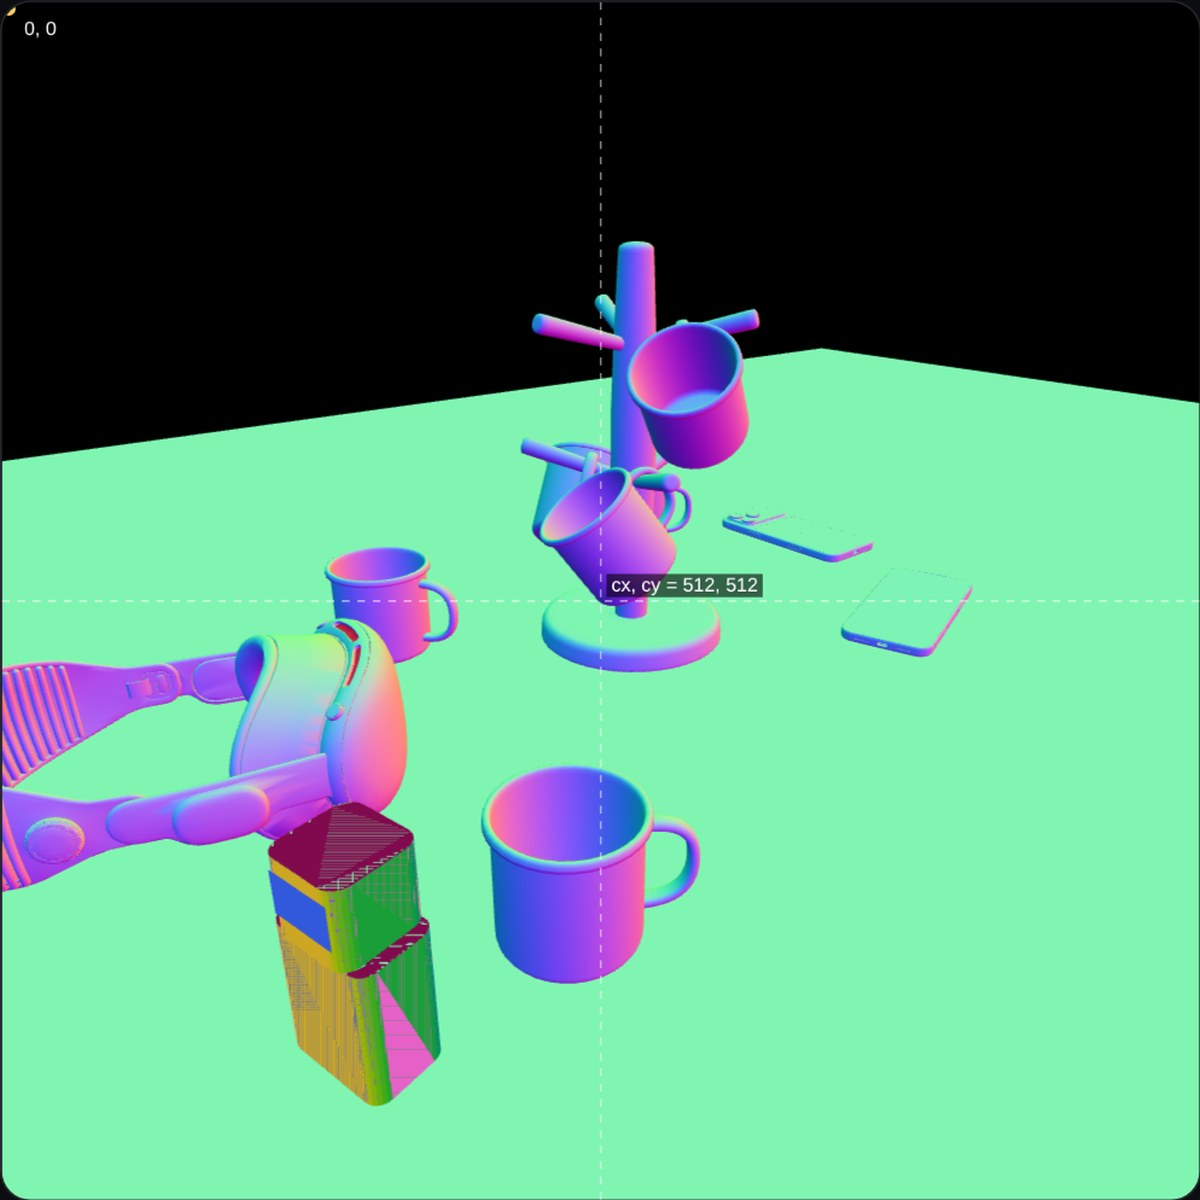
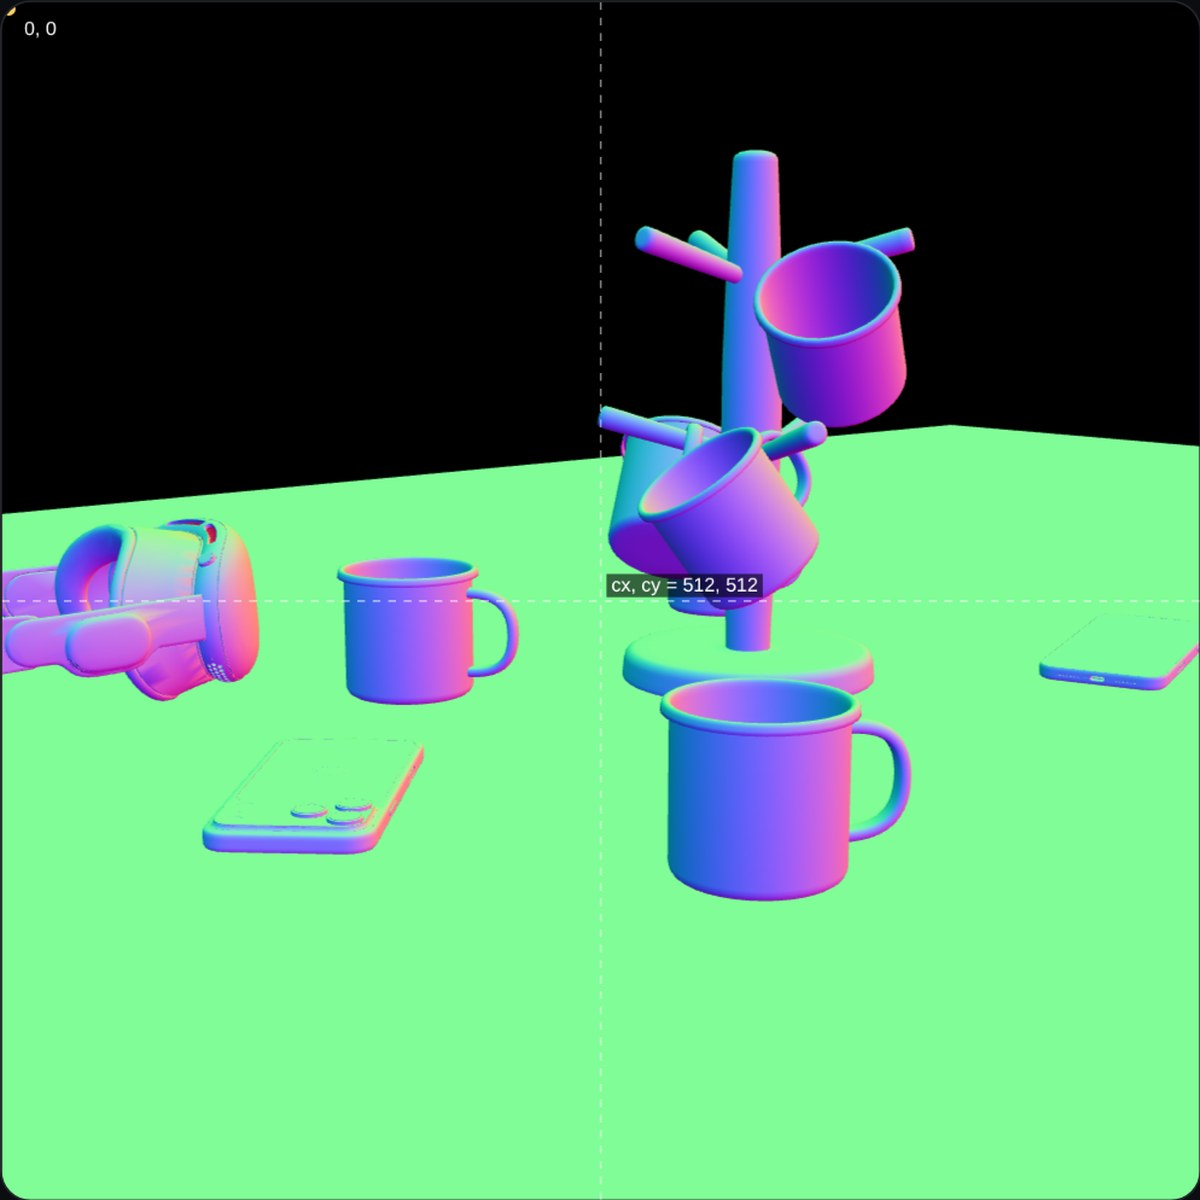
Remove the toy robot; new card images
Claude-Session: https://claude.ai/code/session_01BZ9VTa7dHcspoMet4PMtry

diff --git a/index.html b/index.html
@@ -309,7 +309,7 @@ footer a{text-decoration:none}footer a:hover{color:var(--text)}
 <div class="card" style="margin-top:14px">
 <h2>Assign a material</h2>
 <div class="pick" style="margin-top:12px">
-<label>Surface <select id="tgt" class="sel"><option value="table">Tabletop</option><option value="robot">Robot shell</option></select></label>
+<label>Surface <select id="tgt" class="sel"><option value="table">Tabletop</option></select></label>
 <label class="chk"><input type="checkbox" id="calib">Calibrate scanned albedo to the lookup value</label>
 <button class="btn" type="button" id="reset">Back to scene defaults</button>
 </div>
@@ -438,9 +438,9 @@ const tex=(c,gamma,rep)=>{const t=new BABYLON.Texture(c.toDataURL(),scene);t.gam
 const PSET={};const pset=(k,rep)=>{const key=k+rep;if(!PSET[key])PSET[key]={al:tex(RAW[k].al,true,rep),n:tex(RAW[k].n,false,rep),orm:tex(RAW[k].orm,false,rep),mean:RAW[k].mean,rmean:RAW[k].rmean};return PSET[key];};
 const pbr=name=>{const m=new BABYLON.PBRMaterial(name,scene);Object.assign(m,{useRoughnessFromMetallicTextureAlpha:false,useRoughnessFromMetallicTextureGreen:true,useMetallnessFromMetallicTextureBlue:true,useAmbientOcclusionFromMetallicTextureRed:true});return m;};
 // one material per surface slot; the lookup table drives its numbers
-const SM={table:pbr('table'),robot:pbr('robot')};
-const SLOT_TEX={table:['paper',[4,3]],robot:['plastic',null]};
-const SLOT_REP={table:[2,1.4],robot:[0.6,0.6]};
+const SM={table:pbr('table')};
+const SLOT_TEX={table:['paper',[4,3]]};
+const SLOT_REP={table:[2,1.4]};
 // ---------- 3-point light rig, fixed in world space so all 50 views see the same lighting
 const PEN=0.4; // soft edge: falloff starts at 60% of the cone, same shape in both renderers
 const spot=(n,a)=>{const l=new BABYLON.SpotLight(n,BABYLON.Vector3.Zero(),new BABYLON.Vector3(0,-1,0),a,1,scene);l.falloffType=BABYLON.Light.FALLOFF_GLTF;l.innerAngle=a*(1-PEN);return l;};
@@ -453,7 +453,7 @@ const GIZ=0x10000000,ALL=0x0FFFFFFF;
 const gizMat=c=>{const m=new BABYLON.StandardMaterial('g',scene);m.disableLighting=true;m.emissiveColor=C3(c);return m;};
 const markG=m=>{m.layerMask=GIZ;m.isPickable=false;return m;};
 const table=BABYLON.MeshBuilder.CreateBox('table',{width:3,height:0.04,depth:2},scene);table.position.y=-0.02;table.receiveShadows=true;table.material=SM.table;table.metadata={rgb:SM.table,desc:{t:'box',w:3,h:0.04,d:2}};
-const SEMC={1:'#D85A30',2:'#7F77DD',3:'#1D9E75',4:'#C9A227',5:'#3E8ED0'};
+const SEMC={1:'#D85A30',2:'#7F77DD',3:'#C9A227',4:'#3E8ED0'};
 const flatMat=c=>{const m=new BABYLON.StandardMaterial('f',scene);m.disableLighting=true;m.emissiveColor=C3(c);m.imageProcessingConfiguration=flatIP;return m;};
 const semBg=flatMat('#2C2C2A');
 function canvasTex(w,h,draw){const c=document.createElement('canvas');c.width=w;c.height=h;draw(c.getContext('2d'),w,h);return tex(c,true);}
@@ -465,20 +465,19 @@ const extr=(n,w,d,h,r)=>{try{return BABYLON.MeshBuilder.ExtrudePolygon(n,{shape:
 // Metal mug holder (Mopra, CC-BY-4.0) split into the stand and six separate mugs, each its own instance;
 // mug frames: origin at the base centre, +Y up the mug axis, +X towards the handle. HANG = pose of each mug on its hook (holder frame, metres)
 const HANG=[{"p":[0.05349,0.18447,0.00951],"q":[0.184421,0.739002,0.248406,0.598464]},{"p":[-0.02823,0.18321,-0.04864],"q":[0.35922,0.846505,-0.03641,-0.391236]},{"p":[-0.03038,0.18395,0.04616],"q":[-0.102762,-0.056053,0.313468,0.942357]},{"p":[-0.05268,0.07595,-0.00526],"q":[-0.192059,-0.466148,0.187523,0.843003]},{"p":[0.02779,0.07581,-0.04438],"q":[0.288578,0.950606,0.113464,0.014021]},{"p":[0.02627,0.07576,0.0459],"q":[0.043877,0.421315,0.336621,0.840984]}];
-const DEF=[{name:'mug_holder',cls:4,inst:1,ic:'#C8B79A'},{name:'mug',cls:1,inst:2,ic:'#EF9F27',mi:1},{name:'mug',cls:1,inst:3,ic:'#D4537E',mi:2},{name:'mug',cls:1,inst:4,ic:'#E24B4A',mi:3},{name:'mug',cls:1,inst:5,ic:'#F2C14E',mi:4},{name:'mug',cls:1,inst:6,ic:'#9A6FD8',mi:5},{name:'mug',cls:1,inst:7,ic:'#4FB3BF',mi:6},{name:'phone',cls:2,inst:8,ic:'#378ADD',side:'front'},{name:'toy_robot',cls:3,inst:9,ic:'#97C459'},{name:'phone',cls:2,inst:10,ic:'#5DCAA5',side:'back'},{name:'vision_pro',cls:5,inst:11,ic:'#F0997B'}];
+const DEF=[{name:'mug_holder',cls:3,inst:1,ic:'#C8B79A'},{name:'mug',cls:1,inst:2,ic:'#EF9F27',mi:1},{name:'mug',cls:1,inst:3,ic:'#D4537E',mi:2},{name:'mug',cls:1,inst:4,ic:'#E24B4A',mi:3},{name:'mug',cls:1,inst:5,ic:'#F2C14E',mi:4},{name:'mug',cls:1,inst:6,ic:'#9A6FD8',mi:5},{name:'mug',cls:1,inst:7,ic:'#4FB3BF',mi:6},{name:'phone',cls:2,inst:8,ic:'#378ADD',side:'front'},{name:'phone',cls:2,inst:9,ic:'#5DCAA5',side:'back'},{name:'vision_pro',cls:4,inst:10,ic:'#F0997B'}];
 // iPhone 18 Pro Max glTF (metres; +Y along the length, +Z out of the screen, camera bump 4.8 mm proud of the back)
 // front up: rests on the bump and the bottom edge, tilted ~2°; back up: lies flat on the screen glass
 const PH={front:{tz:-0.058,ta:Math.atan2(0.0048,0.1397),rx:-Math.PI/2,p:[0,0.0092,0.0817+0.058]},back:{tz:0,ta:0,rx:Math.PI/2,p:[0,0.0043,-0.0817]}};
 // Apple Vision Pro glTF: shifted so it rests on the table with its footprint centred on the object origin
 const AVP_OFF=[0.009385,0.04374,0.00105];
-const RAD={mug:0.06,phone:0.095,toy_robot:0.05,mug_holder:0.13,vision_pro:0.15};
+const RAD={mug:0.06,phone:0.095,mug_holder:0.13,vision_pro:0.15};
 function label(t,col){const p=BABYLON.MeshBuilder.CreatePlane('lb',{width:0.22,height:0.04},scene);const dt=new BABYLON.DynamicTexture('dt',{width:512,height:96},scene,true);dt.hasAlpha=true;const ctx=dt.getContext();ctx.clearRect(0,0,512,96);ctx.font='500 44px Figtree, sans-serif';ctx.fillStyle=col;ctx.textBaseline='middle';ctx.fillText(t,8,48);dt.update();const m=new BABYLON.StandardMaterial('lm',scene);m.diffuseTexture=dt;m.emissiveTexture=dt;m.useAlphaFromDiffuseTexture=true;m.disableLighting=true;m.backFaceCulling=false;p.material=m;p.billboardMode=BABYLON.Mesh.BILLBOARDMODE_ALL;return markG(p);}
 const PROF=[[0,0],[0.040,0],[0.044,0.003],[0.045,0.01],[0.045,0.097],[0.0445,0.0995],[0.043,0.1],[0.0415,0.0995],[0.041,0.097],[0.041,0.009],[0,0.009]];
 function build(o){const g=new BABYLON.TransformNode(o.name+o.inst,scene);const m={sem:flatMat(SEMC[o.cls]),inst:flatMat(o.ic)};const meshes=[];
 const add=(me,mat,x,y,z,desc,noShadow)=>{me.material=mat;me.metadata={rgb:mat,desc,cast:!noShadow};if(desc){me.parent=g;me.position.set(x,y,z);}me.receiveShadows=true;if(!noShadow)sg.addShadowCaster(me);meshes.push(me);return me;};
 if(o.name==='mug_holder'||o.name==='mug'||o.name==='vision_pro'){o.slot=o.name==='vision_pro'?'visionpro':'holder';const M=new BABYLON.TransformNode('model',scene);M.parent=g;if(o.name==='vision_pro')M.position.set(...AVP_OFF);o.M=M;o.addMesh=add;}
 if(o.name==='phone'){o.slot='phone';const c=PH[o.side];const T=new BABYLON.TransformNode('tilt',scene);T.parent=g;T.position.set(0,0,c.tz);T.rotation.x=c.ta;const M=new BABYLON.TransformNode('model',scene);M.parent=T;M.position.set(...c.p);M.rotation.x=c.rx;o.M=M;o.addMesh=add;}
-if(o.name==='toy_robot'){o.slot='robot';add(extr('rb',0.06,0.04,0.07,0.008),SM.robot,0,0.07,0,{t:'extr',w:0.06,d:0.04,h:0.07,r:0.008});add(extr('rh',0.046,0.045,0.04,0.009),SM.robot,0,0.11,0,{t:'extr',w:0.046,d:0.045,h:0.04,r:0.009});const vp=BABYLON.MeshBuilder.CreateGround('vp',{width:0.036,height:0.022},scene);vp.rotation.x=Math.PI/2;add(vp,visMat,0,0.092,0.0228,{t:'front',w:0.036,h:0.022},true);}
 const lb=label(o.name+' #'+o.inst,'#8a909b');return Object.assign({},o,{g,m,meshes,lb});}
 const OB=DEF.map(build);
 const hp=markG(BABYLON.MeshBuilder.CreateSphere('hp',{diameter:0.016},scene));hp.material=gizMat(COL.img);hp.parent=OB[0].g;hp.position.set(0,0.319,0);const HPO=[0,0,0.319];
@@ -543,7 +542,7 @@ ip.exposure=Math.min(4,Math.max(0.1,0.7*Math.PI/Et))*Math.pow(2,+$('ev').value);
 $('ev').addEventListener('input',()=>{$('v_ev').textContent=(+$('ev').value>=0?'+':'')+(+$('ev').value).toFixed(1)+' EV';applyLight();update();});$('v_ev').textContent='+0.0 EV';
 // ---------- map modes
 const MODES=[['rgb','RGB'],['depth','Depth'],['normal','Normals'],['sem','Semantic'],['inst','Instance']];
-const LEG={rgb:'RGB: HDRI at half strength plus a key, fill and rim light fixed in the scene.',depth:'Depth label, rendered clean with no effects. Near = white, far = dark.',normal:'Normals label: surface direction in camera space, geometry only.',sem:'Semantic label: mug = 1, phone = 2, toy_robot = 3, mug_holder = 4, vision_pro = 5, background = 0.',inst:'Instance label: one colour per object, so each of the six mugs differs.'};
+const LEG={rgb:'RGB: HDRI at half strength plus a key, fill and rim light fixed in the scene.',depth:'Depth label, rendered clean with no effects. Near = white, far = dark.',normal:'Normals label: surface direction in camera space, geometry only.',sem:'Semantic label: mug = 1, phone = 2, mug_holder = 3, vision_pro = 4, background = 0.',inst:'Instance label: one colour per object, so each of the six mugs differs.'};
 const segBtn=(host,txt,on)=>{const b=document.createElement('button');b.type='button';b.textContent=txt;b.onclick=on;host.appendChild(b);return b;};
 function setMode(k,btn){if(k===mode)return;mode=k;paintModes();applyFX();drawOv();ptShow();const nm=MODES.find(m=>m[0]===k)[1];if(!(PT&&rend==='pt'&&k==='rgb')){setStatus('Rendering '+nm+'…','busy');busy(btn,new Promise(r=>afterCam.push(r))).then(()=>setStatus(nm+' map','ok'));}}
 MODES.forEach(([k,t])=>{const b=segBtn($('modes'),t,()=>setMode(k,b));b.dataset.k=k;const o=document.createElement('option');o.value=k;o.textContent=t+' map';$('modeSel').appendChild(o);});
@@ -577,7 +576,7 @@ const rigS={keyX:+(1+r()*1.5).toFixed(2),ratio,rimX:+(0.3+r()*0.3).toFixed(2),ke
 return{focal,poi,views,hdri,strength,look,table,rig:rigS,nOff};}
 // ---------- material slots: lookup entry + maps
 let SLOTS={};const RES={};let calib=false;
-function defaults(){const L=S.look;SLOTS={table:{set:S.table,lut:TSI[S.table].lut},robot:{lut:'Plastic (PP)',pigment:true}};}
+function defaults(){const L=S.look;SLOTS={table:{set:S.table,lut:TSI[S.table].lut}};}
 const tintTo=(h,y)=>{const c=new BABYLON.Color3();BABYLON.Color3.HSVtoRGBToRef(h*360,0.4,1,c);const a=[c.r,c.g,c.b],k=y/lum(a);return a.map(v=>Math.min(1,v*k));};
 function resolve(k){const s=SLOTS[k],L=S.look,e=s.lut?lutGet(s.lut):null;const p={k,lut:s.lut,set:s.set||null,m:0,r:0.5,ior:1.5,t:0,col:[0.8,0.8,0.8],note:''};
 if(e){p.m=e.m;p.r=e.r;p.ior=e.ior||1.5;p.t=e.t;p.col=e.rgb.slice();}
@@ -603,7 +602,7 @@ bm.useParallax=FX.pom;bm.useParallaxOcclusion=FX.pom;bm.parallaxScaleBias=0.025;
 else{const [pk,prep]=SLOT_TEX[k];const T=pset(p.t>0?'smudge':pk,prep);
 bm.useParallax=bm.useParallaxOcclusion=false;
 if(p.t>0){bm.albedoTexture=null;bm.bumpTexture=null;bm.metallicTexture=T.orm;bm.albedoColor=BABYLON.Color3.FromArray(p.col);bm.metallic=p.m;bm.roughness=1;}
-else{bm.albedoTexture=T.al;bm.bumpTexture=T.n;bm.bumpTexture.level=k==='robot'?0.8:k.startsWith('mug')?0.35:1;bm.metallicTexture=T.orm;bm.albedoColor=BABYLON.Color3.FromArray(p.col.map((v,i)=>Math.min(1,v/T.mean[i])));bm.metallic=p.m;bm.roughness=Math.min(1.4,p.r/T.rmean);}}
+else{bm.albedoTexture=T.al;bm.bumpTexture=T.n;bm.bumpTexture.level=1;bm.metallicTexture=T.orm;bm.albedoColor=BABYLON.Color3.FromArray(p.col.map((v,i)=>Math.min(1,v/T.mean[i])));bm.metallic=p.m;bm.roughness=Math.min(1.4,p.r/T.rmean);}}
 bm.indexOfRefraction=p.ior;bm._t=p.t;bm.subSurface.isRefractionEnabled=false;
 // real-time glass: alpha-blended with Fresnel reflections kept opaque; the path tracer does true refraction
 if(p.t>0){bm.alpha=1-0.92*p.t;bm.transparencyMode=BABYLON.Material.MATERIAL_ALPHABLEND;bm.useRadianceOverAlpha=true;bm.useSpecularOverAlpha=true;bm.backFaceCulling=false;bm.needDepthPrePass=false;}
@@ -657,7 +656,7 @@ frus=markG(BABYLON.MeshBuilder.CreateLineSystem('fr',{lines:[[cp,k1],[cp,k2],[cp
 const R=S.rig,card=(h,rows)=>`<div class="card"><h3>${h}</h3><dl>${rows.map(([k,v])=>`<dt>${k}</dt><dd>${v}</dd>`).join('')}</dl></div>`;
 $('spec').innerHTML=card('Camera, view '+(vi+1),[['Elevation',(VW.el*180/Math.PI).toFixed(0)+'° (10–70)'],['Radius',VW.rad.toFixed(2)+' m (0.6–1.3)'],['Lens',f+' mm (24–70)'],['Focus',dist.toFixed(2)+' m']])
 +card('Light',[['HDRI',S.hdri.replace('_1k','')+' × '+S.strength+' at 50%'],['Key','×'+R.keyX+' HDRI irradiance'],['Key : fill',R.ratio+' : 1 (2–4)'],['Rim','×'+R.rimX+' key (0.3–0.6)'],['Exposure',ip.exposure.toFixed(2)+' metered']])
-+card('Look',[['Tabletop',TSI[S.table].name],['Mugs on the holder',(6-S.nOff)+' of 6'],['Mugs on the table',String(S.nOff)],['Objects',OB.length+' instances, 5 classes']]);
++card('Look',[['Tabletop',TSI[S.table].name],['Mugs on the holder',(6-S.nOff)+' of 6'],['Mugs on the table',String(S.nOff)],['Objects',OB.length+' instances, 4 classes']]);
 const o1=OB[0],Pw=toW(o1,HPO),pc=P(Pw);const vis=pc.Z>0&&pc.u>=0&&pc.u<=W&&pc.v>=0&&pc.v<=W;
 $('chain').innerHTML=crow(COL.obj,'1 Object (pivot 0,0,0)',f2(HPO)+' m')+cstep(`${o1.name} #${o1.inst} at (${o1.x.toFixed(2)}, ${o1.y.toFixed(2)}, 0), turned ${(o1.yaw*180/Math.PI).toFixed(0)}°`)+crow(COL.world,'2 World (table 0,0,0)',f2(Pw)+' m')+cstep('extrinsics of view '+(vi+1))+crow(COL.cam,'3 Camera (lens 0,0,0)',f2([pc.X,pc.Y,pc.Z])+' m')+cstep(`K: fx = ${f}/36 × 1024 = ${Math.round(fx)} px, cx = cy = 512`)+crow(COL.img,'4 Image (top-left 0,0)',pc.Z<=0?'behind camera':`u ${Math.round(pc.u)}, v ${Math.round(pc.v)}${vis?'':' (outside)'} px`);
 const M=[[rt[0],up[0],bk[0],C[0]],[rt[1],up[1],bk[1],C[1]],[rt[2],up[2],bk[2],C[2]],[0,0,0,1]];
@@ -686,7 +685,7 @@ $('camBox').addEventListener('pointerup',e=>{if(!sw)return;const dx=e.clientX-sw
 $('camBox').addEventListener('keydown',e=>{if(e.key==='ArrowLeft'){stepView(-1);e.preventDefault();}else if(e.key==='ArrowRight'){stepView(1);e.preventDefault();}});
 $('seed').addEventListener('input',update);$('view').addEventListener('input',update);
 // ---------- material table panel
-const SLOTN={table:'Tabletop',holder:'Mug holder + mugs #2–#7',phone:'iPhones #8, #10 (frame)',robot:'Robot shell',visionpro:'Vision Pro #11'};
+const SLOTN={table:'Tabletop',holder:'Mug holder + mugs #2–#7',phone:'iPhones #8, #9 (frame)',visionpro:'Vision Pro #10'};
 function check(p){const s=Math.round(l2s(lum(p.col))*255);if(p.m>=0.5)return s>=180?`<span class="ok">✓ metal ${s}</span>`:`<span class="warn">⚠ metal ${s} &lt; 180</span>`;if(p.t>0)return '<span class="ok">✓ transmissive</span>';return s>=30&&s<=240?`<span class="ok">✓ ${s} in 30–240</span>`:`<span class="warn">⚠ ${s} outside 30–240</span>`;}
 function paintSlots(){$('slotRows').innerHTML=Object.keys(SLOTN).map(k=>{const p=RES[k];if(!p)return'';const ts=p.set?TSI[p.set]:null;const f0=p.m>=0.5?'albedo':(((p.ior-1)/(p.ior+1))**2).toFixed(3);
 const maps=p.model?p.model:ts?`<a href="${ts.src}" target="_blank" rel="noopener" style="color:var(--text-accent)">${ts.name}</a> · colour, normal, AO/rough/metal, displacement`:(p.t>0?'smudge roughness':'procedural detail');
